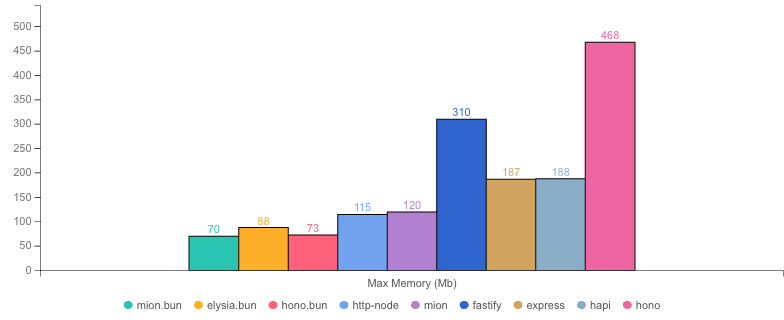
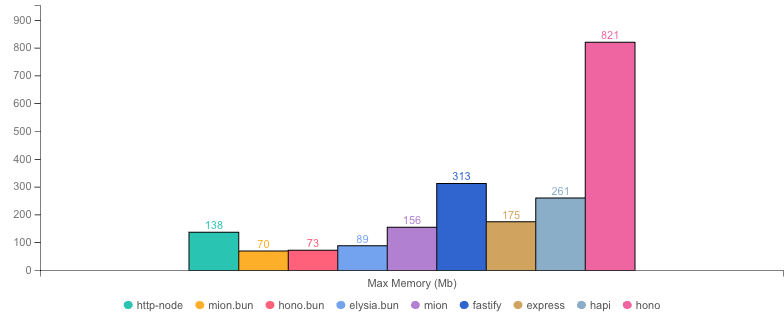
latest mion benchmarks with strict types

diff --git a/website/content/7.benchmarks/3.heavy-validation.md b/website/content/7.benchmarks/3.heavy-validation.md
@@ -87,8 +87,8 @@ We can observe the more validation and serialization is required, the more perfo
 
 * __Machine:__ darwin arm64 | 12 vCPUs | 16.0GB Mem
 * __Node:__ `v24.13.0`
-* __Run:__ Wed Mar 18 2026 00:17:23 GMT+0000 (Greenwich Mean Time)
-* __Method:__ `autocannon -c 100 -d 4.01 -p 10 localhost:3000` (two rounds; one to warm-up, one to measure)
+* __Run:__ Wed Mar 18 2026 00:29:19 GMT+0000 (Greenwich Mean Time)
+* __Method:__ `autocannon -c 100 -d 20.01 -p 10 localhost:3000` (two rounds; one to warm-up, one to measure)
 
 #### Req (R/s) 
 
@@ -114,15 +114,15 @@ We can observe the more validation and serialization is required, the more perfo
 
 |              | Version   | Router | Req (R/s)   | Latency (ms) | Output (Mb/s) | Max Memory (Mb) | Max Cpu (%) | Validation | Description                                                |
 | :--          | --:       | --:    | :-:         | --:          | --:           | --:             | --:         | :-:        | :--                                                        |
-| **mion.bun** | **0.6.2** | **✓**  | **53408.0** | **18.20**    | **55.05**     | **82**          | **102**     | **✓**      | **mion using bun, automatic validation and serialization** |
-| hono.bun     | 3.12.6    | ✓      | 51528.0     | 18.87        | 50.81         | 104             | 102         | ✓          | hono bun server with Zod validation                        |
-| elysia.bun   | 1.0.0     | ✓      | 42744.0     | 22.83        | 42.16         | 117             | 103         | ✓          | Elysia framework with TypeBox validation                   |
-| **mion**     | **0.6.2** | **✓**  | **41208.0** | **23.71**    | **44.33**     | **137**         | **101**     | **✓**      | **Automatic validation and serialization out of the box**  |
-| http-node    | 16.18.0   | ✗      | 41176.0     | 23.71        | 43.03         | 126             | 111         | ✓          | bare node http server with Zod validation                  |
-| fastify      | 5.7.4     | ✓      | 34944.0     | 28.06        | 36.55         | 350             | 132         | ✓          | Fastify with native JSON Schema validation                 |
-| express      | 5.2.1     | ✓      | 30072.0     | 32.62        | 31.43         | 141             | 117         | ✓          | Express with Zod validation                                |
-| hapi         | 21.4.4    | ✓      | 27760.0     | 35.35        | 29.02         | 145             | 113         | ✓          | Hapi with Zod validation                                   |
-| hono         | 3.12.6    | ✓      | 24020.0     | 40.93        | 24.76         | 424             | 120         | ✓          | hono node server with Zod validation                       |
+| **mion.bun** | **0.6.2** | **✓**  | **54668.8** | **17.78**    | **56.35**     | **83**          | **103**     | **✓**      | **mion using bun, automatic validation and serialization** |
+| hono.bun     | 3.12.6    | ✓      | 52876.8     | 18.40        | 52.13         | 104             | 102         | ✓          | hono bun server with Zod validation                        |
+| elysia.bun   | 1.0.0     | ✓      | 43435.2     | 22.50        | 42.83         | 118             | 103         | ✓          | Elysia framework with TypeBox validation                   |
+| **mion**     | **0.6.2** | **✓**  | **42196.8** | **23.19**    | **45.39**     | **172**         | **110**     | **✓**      | **Automatic validation and serialization out of the box**  |
+| http-node    | 16.18.0   | ✗      | 41486.4     | 23.60        | 43.36         | 164             | 111         | ✓          | bare node http server with Zod validation                  |
+| fastify      | 5.7.4     | ✓      | 31021.6     | 31.71        | 32.45         | 352             | 128         | ✓          | Fastify with native JSON Schema validation                 |
+| express      | 5.2.1     | ✓      | 29757.6     | 33.09        | 31.10         | 179             | 117         | ✓          | Express with Zod validation                                |
+| hapi         | 21.4.4    | ✓      | 28300.0     | 34.79        | 29.57         | 292             | 113         | ✓          | Hapi with Zod validation                                   |
+| hono         | 3.12.6    | ✓      | 24632.0     | 40.06        | 25.39         | 605             | 123         | ✓          | hono node server with Zod validation                       |
 
 
 :button-link[Benchmarks Repo]{icon="grommet-icons:github" href="https://github.com/MionKit/Benchmarks" target="_blank"}

diff --git a/website/content/7.benchmarks/2.light-validation.md b/website/content/7.benchmarks/2.light-validation.md
@@ -60,8 +60,8 @@ We can observe how in this benchmark the requests take considerably more time co
 
 * __Machine:__ darwin arm64 | 12 vCPUs | 16.0GB Mem
 * __Node:__ `v24.13.0`
-* __Run:__ Wed Mar 18 2026 00:19:27 GMT+0000 (Greenwich Mean Time)
-* __Method:__ `autocannon -c 100 -d 4.04 -p 10 localhost:3000` (two rounds; one to warm-up, one to measure)
+* __Run:__ Wed Mar 18 2026 00:37:29 GMT+0000 (Greenwich Mean Time)
+* __Method:__ `autocannon -c 100 -d 20.13 -p 10 localhost:3000` (two rounds; one to warm-up, one to measure)
 
 #### Req (R/s) 
 
@@ -87,15 +87,15 @@ We can observe how in this benchmark the requests take considerably more time co
 
 |              | Version   | Router | Req (R/s)   | Latency (ms) | Output (Mb/s) | Max Memory (Mb) | Max Cpu (%) | Validation | Description                                                |
 | :--          | --:       | --:    | :-:         | --:          | --:           | --:             | --:         | :-:        | :--                                                        |
-| **mion.bun** | **0.6.2** | **✓**  | **73664.0** | **13.17**    | **17.91**     | **70**          | **100**     | **✓**      | **mion using bun, automatic validation and serialization** |
-| elysia.bun   | 1.0.0     | ✓      | 73056.0     | 13.25        | 13.99         | 88              | 97          | ✓          | Elysia framework with TypeBox validation                   |
-| hono.bun     | 3.12.6    | ✓      | 72384.0     | 13.35        | 13.87         | 73              | 96          | ✓          | hono bun server with Zod validation                        |
-| http-node    | 16.18.0   | ✗      | 71696.0     | 13.46        | 17.98         | 115             | 110         | ✓          | bare node http server with Zod validation                  |
-| **mion**     | **0.6.2** | **✓**  | **61760.0** | **15.67**    | **17.78**     | **120**         | **111**     | **✓**      | **Automatic validation and serialization out of the box**  |
-| fastify      | 5.7.4     | ✓      | 51648.0     | 18.83        | 13.00         | 310             | 136         | ✓          | Fastify with native JSON Schema validation                 |
-| express      | 5.2.1     | ✓      | 43976.0     | 22.20        | 11.02         | 187             | 116         | ✓          | Express with Zod validation                                |
-| hapi         | 21.4.4    | ✓      | 39896.0     | 24.52        | 10.00         | 188             | 113         | ✓          | Hapi with Zod validation                                   |
-| hono         | 3.12.6    | ✓      | 32812.0     | 29.87        | 7.76          | 468             | 117         | ✓          | hono node server with Zod validation                       |
+| http-node    | 16.18.0   | ✗      | 70956.8     | 13.68        | 17.79         | 138             | 109         | ✓          | bare node http server with Zod validation                  |
+| **mion.bun** | **0.6.2** | **✓**  | **69763.2** | **13.96**    | **16.96**     | **70**          | **98**      | **✓**      | **mion using bun, automatic validation and serialization** |
+| hono.bun     | 3.12.6    | ✓      | 69270.4     | 14.03        | 13.27         | 73              | 95          | ✓          | hono bun server with Zod validation                        |
+| elysia.bun   | 1.0.0     | ✓      | 69062.4     | 14.09        | 13.23         | 89              | 95          | ✓          | Elysia framework with TypeBox validation                   |
+| **mion**     | **0.6.2** | **✓**  | **63555.2** | **15.24**    | **18.29**     | **156**         | **110**     | **✓**      | **Automatic validation and serialization out of the box**  |
+| fastify      | 5.7.4     | ✓      | 45465.6     | 21.48        | 11.44         | 313             | 131         | ✓          | Fastify with native JSON Schema validation                 |
+| express      | 5.2.1     | ✓      | 45190.4     | 21.63        | 11.33         | 175             | 116         | ✓          | Express with Zod validation                                |
+| hapi         | 21.4.4    | ✓      | 40512.0     | 24.17        | 10.16         | 261             | 113         | ✓          | Hapi with Zod validation                                   |
+| hono         | 3.12.6    | ✓      | 32911.6     | 29.87        | 7.78          | 821             | 130         | ✓          | hono node server with Zod validation                       |
 
 
 :button-link[Benchmarks Repo]{icon="grommet-icons:github" href="https://github.com/MionKit/Benchmarks" target="_blank"}

diff --git a/website/content/7.benchmarks/1.hello-world.md b/website/content/7.benchmarks/1.hello-world.md
@@ -30,8 +30,8 @@ Note that Hono and Elisya have slightly better performance than mion, in bun for
 
 * __Machine:__ darwin arm64 | 12 vCPUs | 16.0GB Mem
 * __Node:__ `v24.13.0`
-* __Run:__ Wed Mar 18 2026 00:18:13 GMT+0000 (Greenwich Mean Time)
-* __Method:__ `autocannon -c 100 -d 4 -p 10 localhost:3000` (two rounds; one to warm-up, one to measure)
+* __Run:__ Wed Mar 18 2026 00:32:36 GMT+0000 (Greenwich Mean Time)
+* __Method:__ `autocannon -c 100 -d 20.01 -p 10 localhost:3000` (two rounds; one to warm-up, one to measure)
 
 #### Req (R/s)
 
@@ -57,12 +57,12 @@ Note that Hono and Elisya have slightly better performance than mion, in bun for
 
 |           | Version   | Router | Req (R/s)    | Latency (ms) | Output (Mb/s) | Max Memory (Mb) | Max Cpu (%) | Validation | Description                                               |
 | :--       | --:       | --:    | :-:          | --:          | --:           | --:             | --:         | :-:        | :--                                                       |
-| fastify   | 5.7.4     | ✓      | 118480.0     | 7.94         | 21.24         | 121             | 108         | ✓          | Fastify with native JSON Schema validation                |
-| http-node | 16.18.0   | ✗      | 118480.0     | 7.94         | 21.13         | 149             | 108         | ✓          | bare node http server with Zod validation                 |
-| **mion**  | **0.6.2** | **✓**  | **102352.0** | **9.27**     | **19.91**     | **155**         | **109**     | **✓**      | **Automatic validation and serialization out of the box** |
-| hono      | 3.12.6    | ✓      | 97696.0      | 9.73         | 16.02         | 153             | 109         | ✓          | hono node server with Zod validation                      |
-| hapi      | 21.4.4    | ✓      | 83184.0      | 11.50        | 14.84         | 234             | 111         | ✓          | Hapi with Zod validation                                  |
-| express   | 5.2.1     | ✓      | 72064.0      | 13.35        | 12.85         | 128             | 109         | ✓          | Express with Zod validation                               |
+| http-node | 16.18.0   | ✗      | 127027.2     | 7.46         | 22.65         | 147             | 101         | ✓          | bare node http server with Zod validation                 |
+| fastify   | 5.7.4     | ✓      | 125302.4     | 7.50         | 22.46         | 156             | 108         | ✓          | Fastify with native JSON Schema validation                |
+| **mion**  | **0.6.2** | **✓**  | **110668.8** | **8.50**     | **21.53**     | **225**         | **108**     | **✓**      | **Automatic validation and serialization out of the box** |
+| hono      | 3.12.6    | ✓      | 103600.0     | 9.14         | 16.99         | 230             | 109         | ✓          | hono node server with Zod validation                      |
+| hapi      | 21.4.4    | ✓      | 87440.0      | 10.95        | 15.59         | 243             | 112         | ✓          | Hapi with Zod validation                                  |
+| express   | 5.2.1     | ✓      | 73577.6      | 13.07        | 13.12         | 234             | 110         | ✓          | Express with Zod validation                               |
 
 :button-link[Benchmarks Repo]{icon="grommet-icons:github" href="https://github.com/MionKit/Benchmarks" target="_blank"}
 
